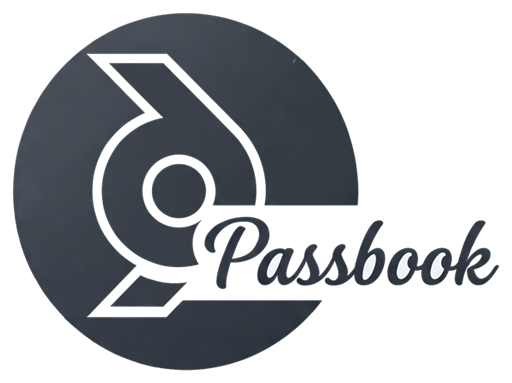
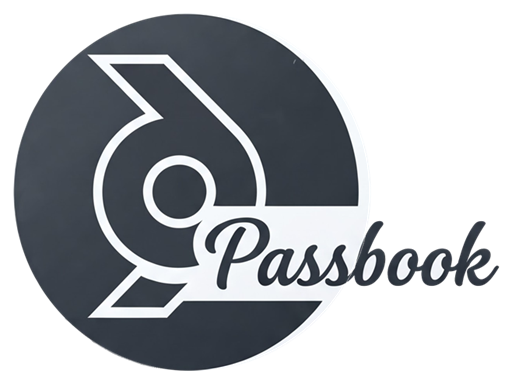
Make the borderless mark visible in dark mode, and give it its artwork back
The owner reported the mark as invisible on the dark surface after the tile was
removed. Two separate bugs, and the second was hiding a worse first one.

The cutout's flood fill was reaching INSIDE the circle. The "Passbook" script
crosses the rim, so the light knockout band behind those letters is a bridge from
the outside straight into the middle of the artwork; the fill walked it and
punched out the monogram and the lettering. 21,000 pixels of artwork were
see-through. On a light page that is indistinguishable from correct — a
transparent hole shows the page, and the page is the same near-white the
artwork's background was. Rendering the mark over magenta is what made it
obvious. The script's own comment asserted the circle was sealed; it is not.

make-icons.ps1 now restores the circle from the original pixels after the fill
(RestoreDisc), located from the surviving ink — the circle is the tallest thing
in the mark — so there is no hardcoded geometry, and the restore fades over the
last two master pixels so the monogram touching the rim does not leave a notch.
The tool throws rather than writing a mark whose circle does not come back
filled.

Then the surviving tones are all dark, so the mark is invisible on the dark
surface as drawn. base.css inverts it under [data-theme="dark"]. That works
because of how the artwork is built: the monogram and the script inside the
circle are knockouts in the disc, so they invert with it and the design keeps its
[…]

diff --git a/base.css b/base.css
@@ -342,6 +342,26 @@ html[data-intro="seen"] #splash-screen {
   width: auto;
   display: block;
 }
+/* On a light page the mark is used exactly as drawn. On a dark one its two tones
+   both disappear: the circle is a dark navy on #171717 and the "Passbook" script
+   is darker still, so the mark reads as an empty box. The owner reported exactly
+   that after the tile was removed.
+
+   invert() is the whole fix, and it works because of how the artwork is built:
+   the monogram and the script inside the circle are HOLES knocked out of the
+   disc, so inverting turns the disc light and those knockouts dark, keeping the
+   design's internal contrast. Outside the circle the script is dark ink on a now
+   transparent background, so it inverts to a light word on the dark page — which
+   is what the artwork does in reverse on white. No second asset, no plate, and
+   nothing to keep in sync when the master is replaced.
+
+   brightness(0) invert(1) would NOT work: it flattens the mark to one colour and
+   the monogram disappears into the disc. Probed on the real dark surface before
+   choosing, not guessed. */
+[data-theme="dark"] .brand-mark img,
+[data-theme="dark"] .auth-logo {
+  filter: invert(1);
+}
 .brand-text {
   font-size: var(--text-base);
   font-weight: var(--weight-semibold);

diff --git a/sw.js b/sw.js
@@ -10,7 +10,7 @@
 //    CACHE_NAME below is what removes that one-load lag, which is why
 //    `tools/deploy-ghpages.mjs` refuses to be quiet about it.
 //  - Other cross-origin (fonts, etc.): default network handling.
-const CACHE_NAME = 'ipassbook-v33';
+const CACHE_NAME = 'ipassbook-v34';
 const SHELL = [
   './',
   './index.html',

diff --git a/docs/07 - Known Issues & TODO.md b/docs/07 - Known Issues & TODO.md
@@ -168,12 +168,13 @@ completely, and the honest mitigation is named rather than implied.
 
 ## Tests
 
-`node tools/smoke-all.mjs` — **1697 cases across 16 suites**, all passing.
+`node tools/smoke-all.mjs` — **1702 cases across 16 suites**, all passing.
 (1605 across 15 when the Drive-store migration shipped; `smoke-list-intel.mjs` and
 its 69 cases arrived with Stages 3–4; the 15 for the silent-upload fix arrive with
 `smoke-store.mjs`'s first *behavioural* reproduction of a user-reported bug — it
 calls `saveSection` with a file whose MIME type is empty, which is what an Android
-picker really does.)
+picker really does — and the 5 that pin the mark decode the PNG and count its
+pixels, because the checks that were there before passed on the broken file.)
 
 **A suite that fails inside `smoke-all` but passes on its own is Chrome contention,
 not a regression** — re-run just that suite before believing it. `smoke-boot.mjs`
@@ -432,6 +433,23 @@ human with the Google account, and three of them are the *same* five-minute job:
   @mentions, and **file uploads** (which previously left no trace at all). One pure
   `buildTimeline(...)` feeds both the Overview panel and the 🕓 History modal, so the
   two can never tell different stories.
+- ✅ **The borderless mark works in dark mode, and the reason it did not is worth
+  keeping.** When the owner asked for the tile to be removed, the cutout's flood fill
+  turned out to be reaching INSIDE the circle — through the light knockout band behind
+  the "Passbook" script, which crosses the rim — and punching out the monogram and the
+  lettering with it. That is invisible on a light page, because a transparent hole shows
+  the page and the page is the same near-white the artwork's background was; it only
+  showed up in dark mode, where the mark became an empty box. So there were two bugs,
+  not one: the cutout ate 21,000 pixels of artwork, and the surviving tones are all dark,
+  so the mark is invisible on the dark surface as drawn. `tools/make-icons.ps1` now
+  restores the circle from the original pixels (`RestoreDisc`), found from the surviving
+  ink rather than hardcoded geometry, and **refuses to write a mark whose circle does not
+  come back filled**; `base.css` inverts the mark in dark mode, which works *because* the
+  monogram is a knockout in the disc. `smoke-shell.mjs` decodes the PNG and counts pixels
+  — ~22,000 opaque near-white ones intact, ~800 hollowed out — because a size check and a
+  "not blank" check both pass on the broken file. The generalisable part: **a mark that
+  is correct on a light background can be broken in a way only a dark background shows**,
+  and rendering it over magenta is what makes it obvious.
 - ✅ **The department matrix is populated.** The owner's mapping lives in
   `SEED_GRANTS`; `seedDepartments()` upserts it and reports `created` / `updated` /
   `unchanged` / and a **`dropped`** list, and `seedMemberships()` adds the

diff --git a/docs/01 - Project Overview.md b/docs/01 - Project Overview.md
@@ -90,11 +90,33 @@ tile sitting on the page, which is what the owner saw and asked to have removed.
 Keying it out cannot be done by colour, because the monogram and the "Passbook"
 script are the *same colour* as the background they sit on; only **connectivity**
 separates them, so the tool floods inward from the border and stops at anything
-that is not background-coloured, which leaves the white inside the circle
-untouched. That flood is ~2.7 million pixels, so it is compiled with `Add-Type`
-rather than looped in PowerShell. `smoke-shell.mjs` checks the result really is
-an RGBA PNG of the right size, because a mark that quietly kept its background
-looks correct on the light page and wrong everywhere else.
+that is not background-coloured. That flood is ~2.7 million pixels, so it is
+compiled with `Add-Type` rather than looped in PowerShell.
+
+**The flood alone was not enough, and the failure was invisible for a while.**
+The white inside the circle is NOT sealed off by the circle: the "Passbook" script
+crosses the rim, so the light knockout band behind those letters is a bridge from
+the outside straight into the middle of the artwork. The flood walked it and
+punched out the monogram and the lettering — 21,000 pixels of artwork turned
+see-through. On a light page that is indistinguishable from correct, because a
+transparent hole shows the page and the page is the same near-white the artwork's
+background was; it only became visible in **dark mode**, where the mark turned
+into an empty box. The circle is now restored from the original pixels after the
+fill (`RestoreDisc`), located from the surviving ink rather than from hardcoded
+geometry, and the tool refuses to write a mark whose circle does not come back
+filled. Rendering the mark over magenta is what makes this class of bug obvious.
+
+`smoke-shell.mjs` decodes the PNG and counts its pixels — the intact mark has
+~22,000 opaque near-white ones and a hollowed-out mark has ~800 — because a
+dimension check and a "not blank" check both pass on the broken file.
+
+**Dark mode inverts the mark** (`filter: invert(1)` in `base.css`). Both of its
+tones are dark, so on the dark surface it is invisible as drawn — the owner
+reported exactly that. Inverting works *because* of how the artwork is built: the
+monogram and the script inside the circle are knockouts in the disc, so they
+invert along with it and the design keeps its internal contrast. `brightness(0)
+invert(1)`, the obvious-looking alternative, flattens the whole mark to one colour
+and loses the monogram.
 
 ## Key Design Decisions
 
